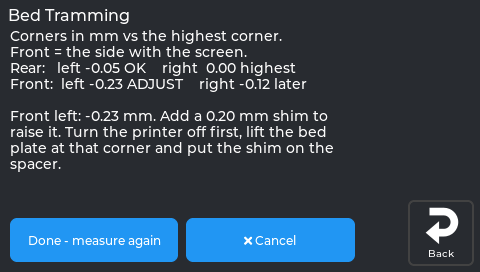
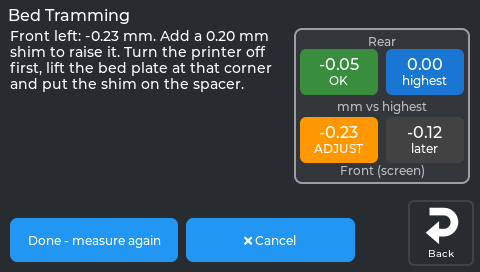
wiki: NebulaOS 1.0.4 - bed tramming picture, Nebula Pad route, JDavid's tip
- Calibration explained → Bed tramming: "measuring" at once, retries, head
  up to 100 mm, the corner picture (colours and reference corner), new
  480x272 screenshots; JDavid's tip (solid spacer on the load-cell corner,
  rubber on the other three, choose Rubber or springs).
- Install NebulaOS: 1.0.4 file names; section 2c for a separately sold
  Nebula Pad (NEBULA_ota_img).
- Home: this manual describes 1.0.4.

Refs NebulaOS-KE/NebulaOS#24

Changed region(s): [[0.0, 0.0882, 1.0, 0.6765], [0.0, 0.5882, 0.125, 0.6471]]

diff --git a/wiki/Installing-NebulaOS.md b/wiki/Installing-NebulaOS.md
@@ -11,18 +11,19 @@ NebulaOS, and your old system is still there in the other slot in case you want 
   [Check you have the right printer](What-NebulaOS-Is#check-you-have-the-right-printer).
 - The right NebulaOS image file, from
   [NebulaOS releases](https://github.com/NebulaOS-KE/NebulaOS/releases). **Which one depends on
-  the route** (section 1 below). For 1.0.2 the files are:
+  the route** (section 1 below). For 1.0.4 the files are:
 
   | File | What it is |
   |---|---|
-  | `NebulaOS-Ender3V3KE-F005_ota_img_V9.1.0.2.img` | **From stock Creality firmware, with the touchscreen (section 2b).** The file with `ota_img` in its name - Creality's touchscreen updater offers only a file named like this |
-  | `NebulaOS-Ender3V3KE-1.0.2.img` | **From OpenKE, over SSH (section 2a).** The printer also uses this one for online updates. Creality's touchscreen ignores it |
-  | `NebulaOS-Ender3V3KE-1.0.2.img.sha256` | Its checksum, for the optional download check below |
-  | `NebulaOS-Ender3V3KE-1.0.2.ingenic` | Only for USB recovery on a printer that will not start - see [Recovery](Recovery). **Not** for a normal install |
-  | `NebulaOS-Ender3V3KE-1.0.2.ingenic.sha256` | Its checksum |
+  | `NebulaOS-Ender3V3KE-F005_ota_img_V9.1.0.4.img` | **From stock Creality firmware, with the touchscreen (section 2b).** The file with `ota_img` in its name - Creality's touchscreen updater offers only a file named like this |
+  | `NebulaOS-NebulaPad-NEBULA_ota_img_V9.1.0.4.img` | **Only for a Nebula Pad bought separately** (section 2c) - Creality's pad software accepts only this envelope. Same system inside |
+  | `NebulaOS-Ender3V3KE-1.0.4.img` | **From OpenKE, over SSH (section 2a).** The printer also uses this one for online updates. Creality's touchscreen ignores it |
+  | `NebulaOS-Ender3V3KE-1.0.4.img.sha256` | Its checksum, for the optional download check below |
+  | `NebulaOS-Ender3V3KE-1.0.4.ingenic` | Only for USB recovery on a printer that will not start - see [Recovery](Recovery). **Not** for a normal install |
+  | `NebulaOS-Ender3V3KE-1.0.4.ingenic.sha256` | Its checksum |
   | `nebulaos-release.json` | Machine-readable release details; the printer uses it for online updates |
 
-  The examples on this page use 1.0.2; if you downloaded a newer version, use its number.
+  The examples on this page use 1.0.4; if you downloaded a newer version, use its number.
 - **If you are coming from stock Creality firmware:** a USB stick formatted as FAT32.
 - **If you are coming from OpenKE:** your usual SFTP and SSH tools, and OpenKE's root
   password.
@@ -42,7 +43,7 @@ NebulaOS, and your old system is still there in the other slot in case you want 
 - Check your download if you can. On Linux or macOS, in the folder with both files:
 
   ```
-  sha256sum -c NebulaOS-Ender3V3KE-1.0.2.img.sha256
+  sha256sum -c NebulaOS-Ender3V3KE-1.0.4.img.sha256
   ```
 
   You want to see `OK`. If it says `FAILED`, download the file again - do not install it.
@@ -53,6 +54,7 @@ NebulaOS, and your old system is still there in the other slot in case you want 
 |---|---|
 | Stock Creality firmware, with Creality's touchscreen | Section 2b |
 | OpenKE, usually with no Creality touchscreen | Section 2a |
+| A Nebula Pad bought separately, with its own Creality software | Section 2c |
 
 If you are not sure, you are almost certainly on stock Creality firmware: section 2b.
 
@@ -63,11 +65,11 @@ You need the SFTP and SSH tools you already use with OpenKE - for example WinSCP
 password (the system running on the printer now, not NebulaOS's). This route uses the
 **normal** `.img`, the one without `ota_img` in its name.
 
-1. Copy `NebulaOS-Ender3V3KE-1.0.2.img` to `/usr/data/` on the printer. Do not rename it.
+1. Copy `NebulaOS-Ender3V3KE-1.0.4.img` to `/usr/data/` on the printer. Do not rename it.
 2. In an SSH session on the printer, run:
 
    ```
-   /etc/ota_bin/local_ota_update.sh /usr/data/NebulaOS-Ender3V3KE-1.0.2.img
+   /etc/ota_bin/local_ota_update.sh /usr/data/NebulaOS-Ender3V3KE-1.0.4.img
    ```
 
    Wait for `ota update ok`. A line `sh: 1.1.0.15: bad number` on the way is harmless - it
@@ -88,9 +90,9 @@ Now go to section 3.
 
 This is the usual route if your printer still has Creality's software on it.
 
-1. Copy the file with `ota_img` in its name - for 1.0.2,
-   `NebulaOS-Ender3V3KE-F005_ota_img_V9.1.0.2.img` - to the top level of a FAT32 USB stick.
-   Do not put it in a folder, and do not rename it. The normal `NebulaOS-Ender3V3KE-1.0.2.img`
+1. Copy the file with `ota_img` in its name - for 1.0.4,
+   `NebulaOS-Ender3V3KE-F005_ota_img_V9.1.0.4.img` - to the top level of a FAT32 USB stick.
+   Do not put it in a folder, and do not rename it. The normal `NebulaOS-Ender3V3KE-1.0.4.img`
    does not work here: Creality's screen does not offer it.
 2. Plug the USB stick into the printer.
 3. Start the update from Creality's own screen, the same way you would install a Creality
@@ -98,6 +100,23 @@ This is the usual route if your printer still has Creality's software on it.
 
 Creality's screen uses the same updater as section 2a, and it restarts the printer itself when
 it finishes. **After that, one power cycle is needed** - section 3 says when.
+
+Now go to section 3.
+
+## 2c. On a Nebula Pad bought separately
+
+The Nebula Pad sold on its own is the same touchscreen computer as the KE's, but its Creality
+software only opens update files made for it. NebulaOS has one:
+
+1. Copy `NebulaOS-NebulaPad-NEBULA_ota_img_V9.1.0.4.img` to the top level of a FAT32 USB stick.
+   Do not put it in a folder, and do not rename it.
+2. Plug the USB stick into the pad.
+3. Start the update from the pad's own screen, the same way you would install a Creality
+   update.
+
+The system inside is exactly the same as in the KE files. **After the pad restarts, one power
+cycle is needed** - section 3 says when. NebulaOS is made for the Ender-3 V3 KE; on another
+printer, read [Other printers](Other-Printers-Experimental) first.
 
 Now go to section 3.
 
@@ -132,7 +151,7 @@ If you came from OpenKE, delete the copied image afterwards to free the space it
 session on the printer:
 
 ```
-rm /usr/data/NebulaOS-Ender3V3KE-1.0.2.img
+rm /usr/data/NebulaOS-Ender3V3KE-1.0.4.img
 ```
 
 **SSH on NebulaOS:** user `root`, password `NebulaOS` on a new install. Change it, and never make

diff --git a/wiki/Calibration-Explained.md b/wiki/Calibration-Explained.md
@@ -109,33 +109,54 @@ what to do, **one corner at a time**.
   adding a thin **printed shim** under it.
 - **Rubber or springs.** A common upgrade. You correct a corner by turning its screw.
 
-The answer is remembered; **Switch to rubber/springs** on the page changes it.
+The answer is remembered, and the screen confirms it (*"Bed mount set to rubber or springs."*).
+**Switch to rubber/springs** (or **Switch to rigid spacers**) on the page changes it.
 
 **How it works.**
 
-1. The printer homes and measures all four corners (3 samples each).
-2. Each corner is shown compared with a reference corner, with a sign: **minus is lower, plus is
-   higher**. A corner within **0.10 mm** is **OK** and is never selected again. Example (rigid
-   spacers, compared with the highest corner):
-
-   ```
-   Rear:   left -0.05 OK    right  0.00 highest
-   Front:  left -0.23 ADJUST    right -0.12 later
-   ```
-3. You get **one instruction** for the worst corner, for example *"Front left: -0.23 mm. Add a
+1. The printer homes and measures all four corners (3 samples each). The screen shows
+   *"Measuring the four corners..."* the moment you tap - keep your hands off the bed. If one
+   probe touch is off, the printer measures that corner again by itself.
+2. When it is done, the head goes **up to 100 mm** at the middle of the rear edge, so you can lift
+   the bed plate and reach every screw.
+3. The four corners are shown as a picture of the bed, **front (the screen side) at the bottom**.
+   Each corner is compared with a reference corner, with a sign: **minus is lower, plus is
+   higher**.
+   - **orange ADJUST** - the corner to correct now;
+   - **green OK** - within **0.10 mm**; never selected again;
+   - **blue** - the reference corner (rigid spacers: the **highest** corner; rubber or springs:
+     the **front-left** corner, called **base**);
+   - **grey later** - not yet; it comes after the current one.
+4. You get **one instruction** for the worst corner, for example *"Front left: -0.23 mm. Add a
    0.20 mm shim to raise it. Turn the printer off first, lift the bed plate at that corner and put
-   the shim on the spacer."* With rubber or springs it says which screw to turn and how far.
-4. Correct the corner, tap **Done - measure again**, and repeat until *"Bed tramming complete"*.
+   the shim on the spacer."* With rubber or springs it says which screw to turn, which way and how
+   far (for example *"Turn the screw an eighth of a turn counter-clockwise"*).
+5. Correct the corner, tap **Done - measure again**, and repeat until *"Bed tramming complete"*.
 
-Front is the side with the screen. The bed screws are M4x25.
+The bed screws are M4x25.
 
-![The printer tells you which corner to adjust, and by how much](images/m42-tram-adjust-rigid.png)
+![Measuring the four corners](images/m41a-tram-measuring.png)
 
-*The printer tells you which corner to adjust, and by how much.*
+*Measuring. The screen shows this as soon as you tap.*
+
+![Rigid spacers: add a shim under the orange corner](images/m42-tram-adjust-rigid.png)
+
+*Rigid spacers: the front-left corner is 0.23 mm below the highest corner - add a 0.20 mm shim.*
+
+![Rubber or springs: turn the screw of the orange corner](images/m43-tram-adjust-adjustable.png)
+
+*Rubber or springs: every corner is compared with the front-left corner (base).*
 
 ![Tramming complete](images/m45-tram-complete.png)
 
-*Tramming complete.*
+*Tramming complete: all four corners OK.*
+
+> **Tip from JDavid (community): rubber mounts, but keep the load-cell corner solid.**
+> Use the silicone (rubber) spacers on three corners, and keep the **solid spacer on the
+> front-left corner** - the one with the load cell. Choose **Rubber or springs**: NebulaOS uses
+> the front-left corner as the reference and never asks you to turn it, so you tram the bed with
+> the other three screws. The load cell stays rigidly mounted, and automatic Z offset keeps
+> working well.
 
 **Printed shims.** Print a few thin washers that fit around the M4 bed screw (hole about 4.5 mm).
 Two each of **0.10, 0.20 and 0.30 mm** cover most beds. The advice is rounded **down** to whole

diff --git a/wiki/Home.md b/wiki/Home.md
@@ -1,7 +1,7 @@
 # The NebulaOS manual
 
 **NebulaOS is open firmware for the Creality Ender-3 V3 KE: guided printing on its own touchscreen
-app, with full Klipper control underneath.** This manual describes NebulaOS 1.0.3.
+app, with full Klipper control underneath.** This manual describes NebulaOS 1.0.4.
 
 ## New here? Start printing
 
